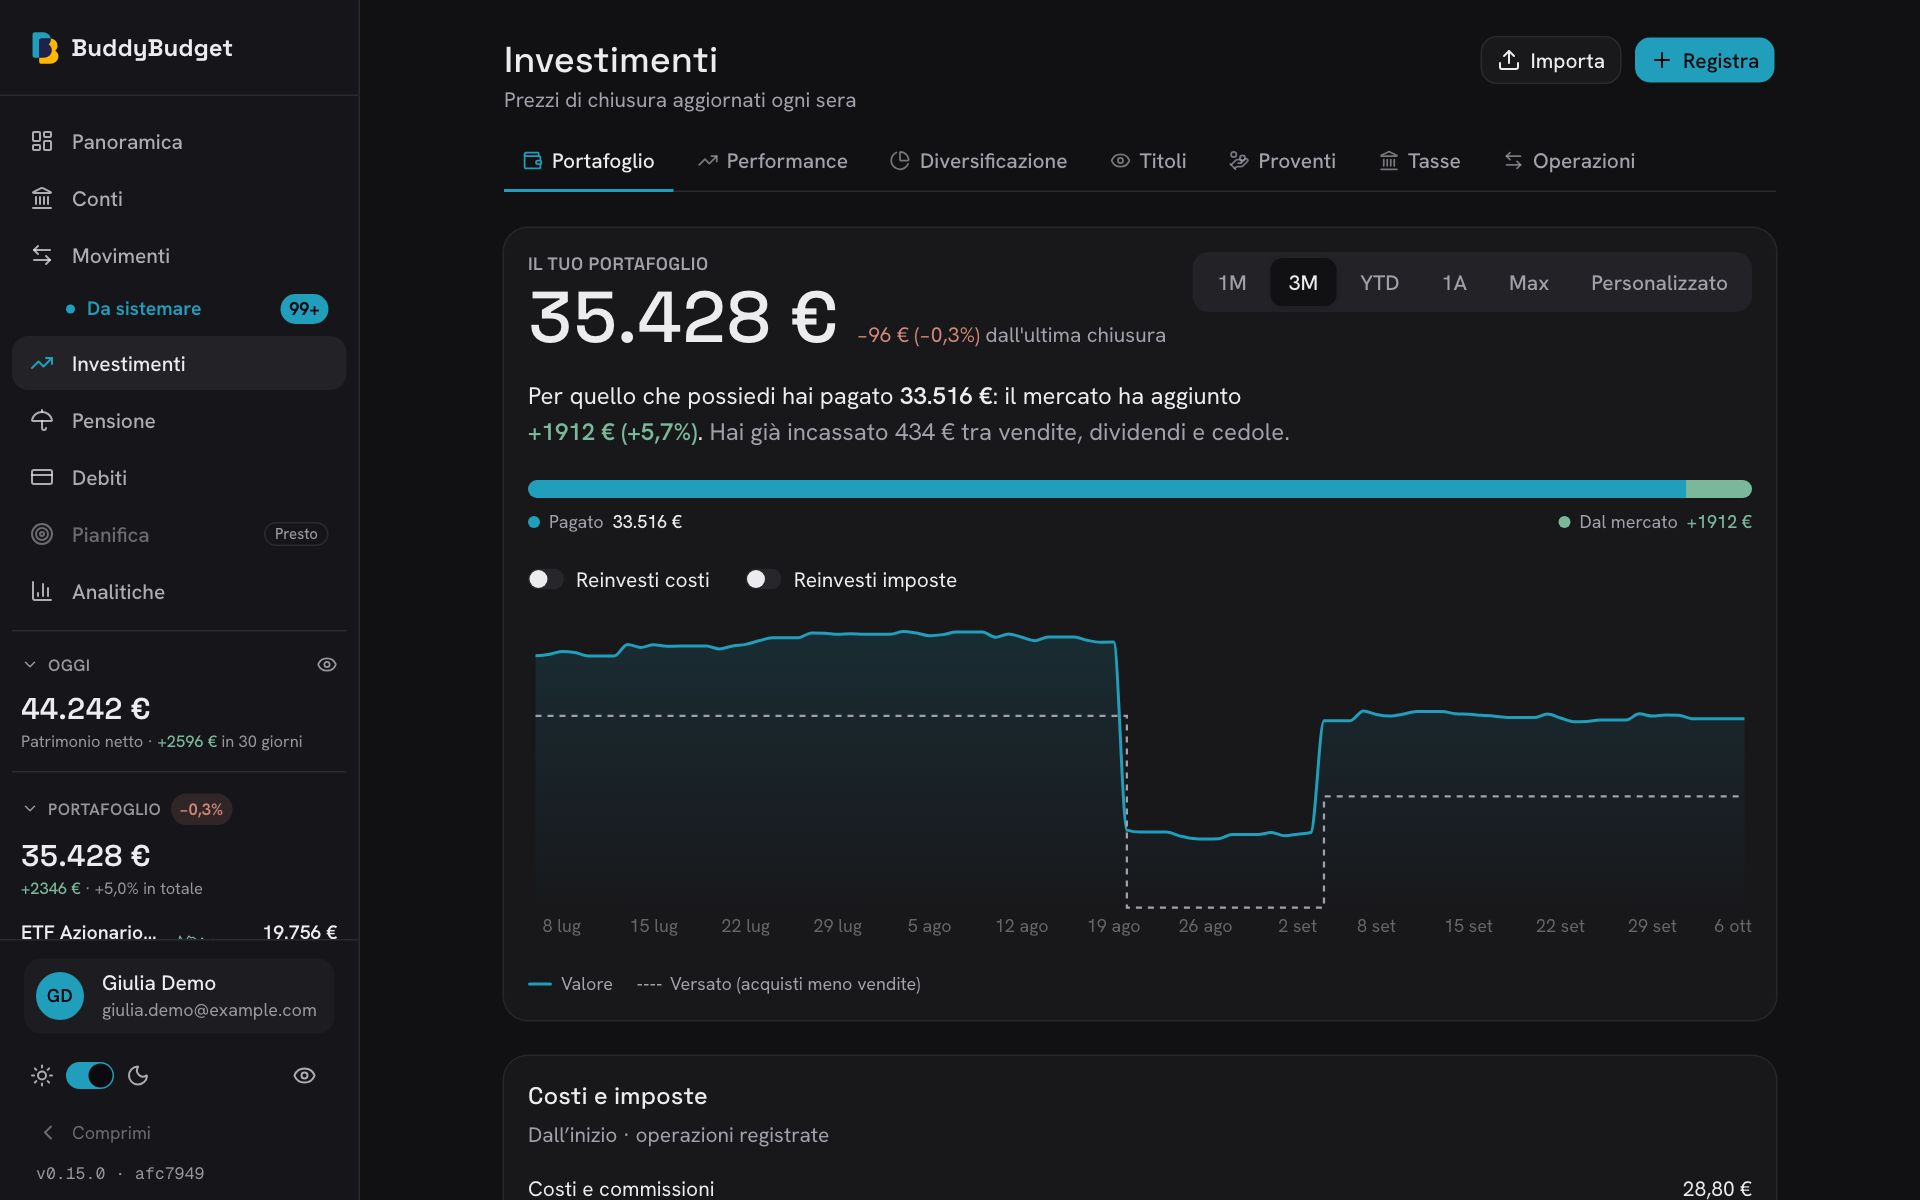
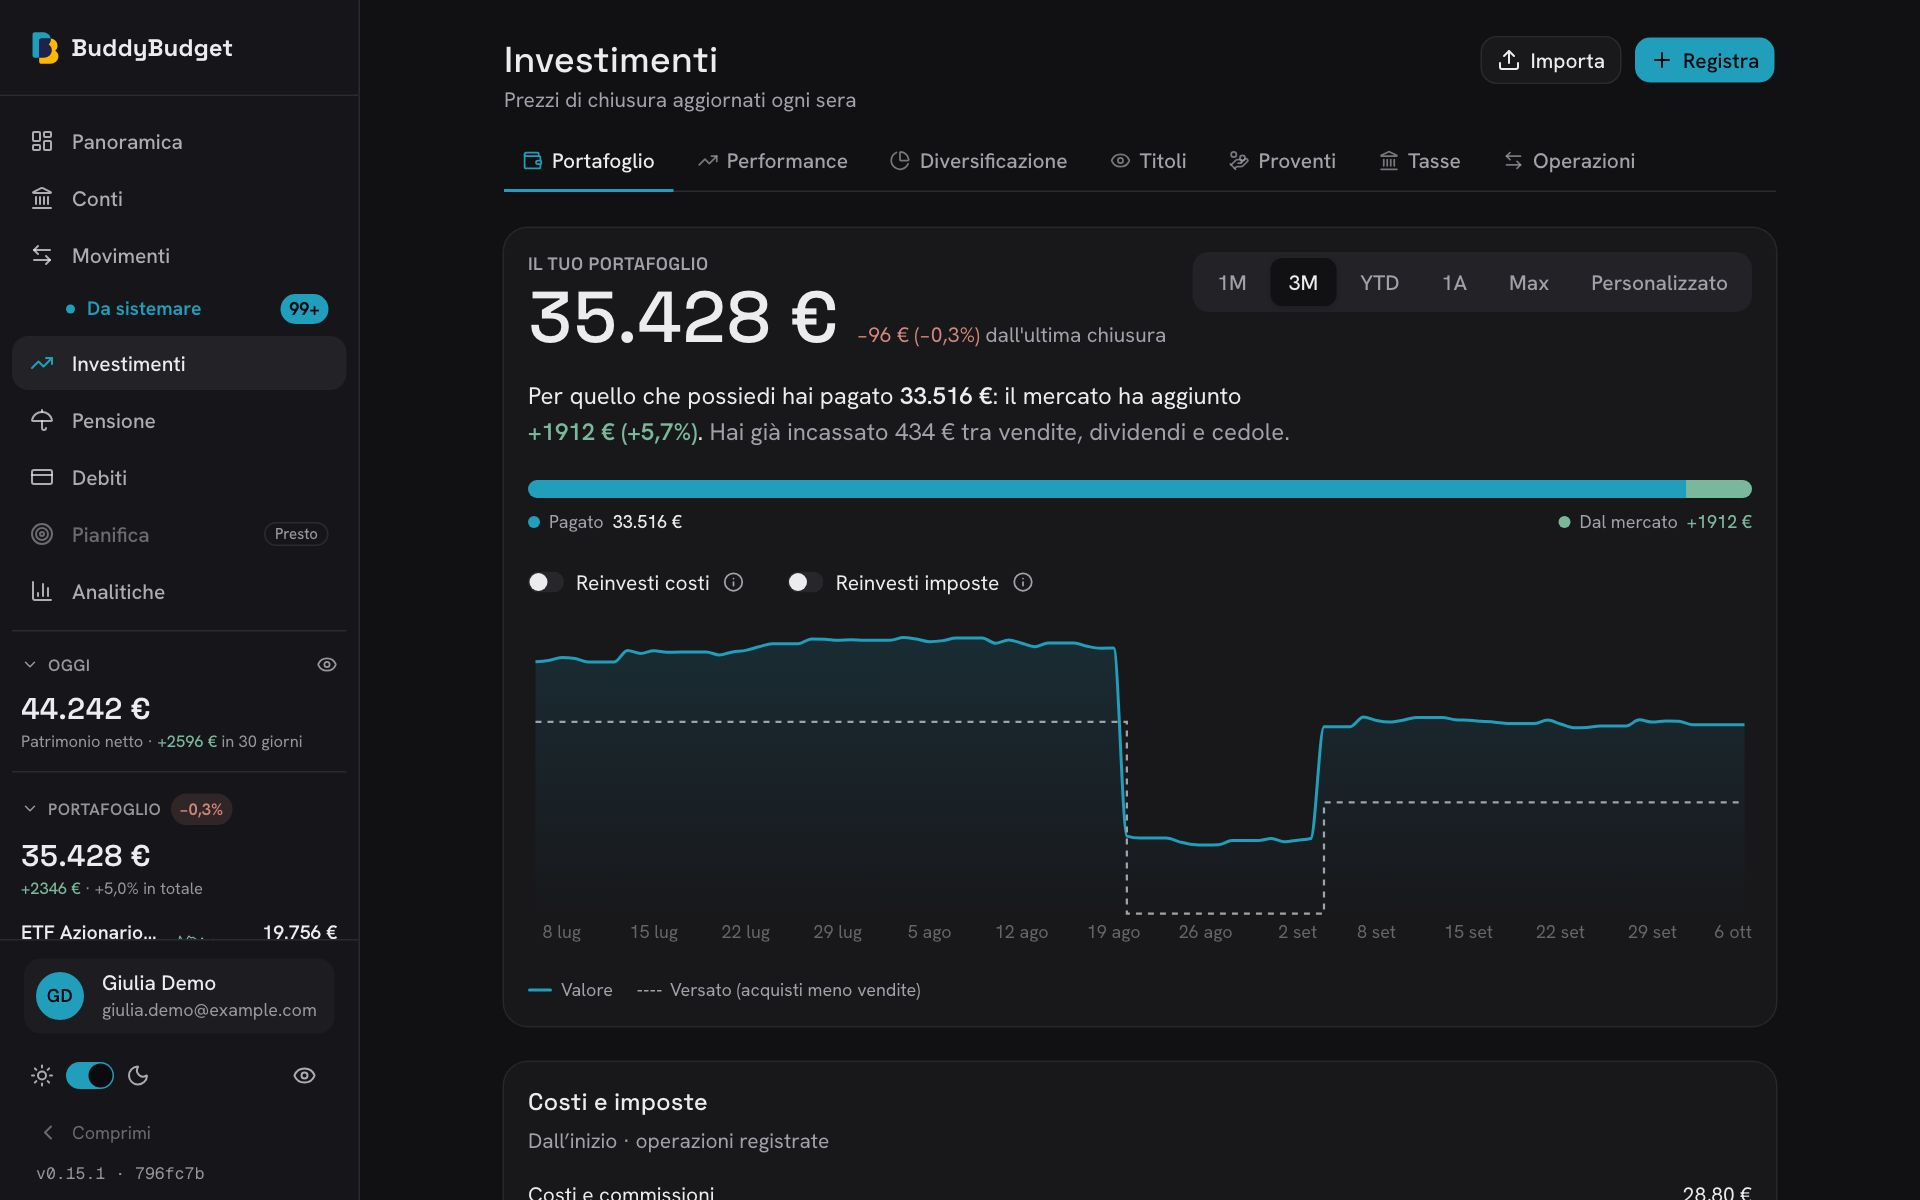
fix: explain portfolio cost and tax reinvestment toggles

diff --git a/components/domain/investments/portfolio-hero-card.tsx b/components/domain/investments/portfolio-hero-card.tsx
@@ -7,6 +7,7 @@
 
 import { simulateCostExclusions } from "@/lib/investments/cost-impact";
 import type { BrokerCash } from "@/lib/investments/broker-cash";
+import { InfoHint } from "@/components/domain/shared";
 import { Switch } from "@/components/ui/switch";
 import type { CostImpact } from "@/lib/investments/cost-impact";
 import { Area, AreaChart, Line, XAxis, YAxis } from "recharts";
@@ -24,6 +25,10 @@ const CHART_CONFIG = {
   value: { label: "Valore", color: "var(--primary)" },
   invested: { label: "Versato", color: "var(--muted-foreground)" },
 } satisfies ChartConfig;
+const REINVESTMENT_HELP = {
+  fees: "Simula quanto varrebbe oggi il portafoglio se costi e commissioni fossero rimasti investiti, crescendo nel tempo con il rendimento del portafoglio.",
+  taxes: "Simula quanto varrebbe oggi il portafoglio se le imposte fossero rimaste investite, crescendo nel tempo con il rendimento del portafoglio. Include le imposte registrate e le stime della scheda Tasse, con compensazione delle minusvalenze; bollo escluso.",
+} as const;
 const AREA_FILL_ID = "portfolio-hero-fill";
 const TOOLTIP_DATE_FORMAT = new Intl.DateTimeFormat("it-IT", { day: "numeric", month: "long", year: "numeric" });
 
@@ -135,8 +140,14 @@ export function PortfolioHeroCard({ cash = [], includeCash = true, onIncludeCash
         </> : null}
         {costImpact ? (
           <div className="flex flex-wrap items-center gap-x-6 gap-y-3 text-sm">
-            <label className="flex cursor-pointer items-center gap-2"><Switch size="sm" checked={!includeFees} onCheckedChange={(checked) => onIncludeFeesChange?.(!checked)} disabled={!costImpact.available} />Reinvesti costi</label>
-            <label className="flex cursor-pointer items-center gap-2"><Switch size="sm" checked={!includeTaxes} onCheckedChange={(checked) => onIncludeTaxesChange?.(!checked)} disabled={!costImpact.available} />Reinvesti imposte</label>
+            <div className="flex items-center gap-1">
+              <label className="flex cursor-pointer items-center gap-2"><Switch size="sm" checked={!includeFees} onCheckedChange={(checked) => onIncludeFeesChange?.(!checked)} disabled={!costImpact.available} />Reinvesti costi</label>
+              <InfoHint label="Come funziona Reinvesti costi?">{REINVESTMENT_HELP.fees}</InfoHint>
+            </div>
+            <div className="flex items-center gap-1">
+              <label className="flex cursor-pointer items-center gap-2"><Switch size="sm" checked={!includeTaxes} onCheckedChange={(checked) => onIncludeTaxesChange?.(!checked)} disabled={!costImpact.available} />Reinvesti imposte</label>
+              <InfoHint label="Come funziona Reinvesti imposte?">{REINVESTMENT_HELP.taxes}</InfoHint>
+            </div>
           </div>
         ) : null}
         {hasHistory ? (

diff --git a/docs/decisioni/2026-10-06-periodi-grafico-portafoglio.md b/docs/decisioni/2026-10-06-periodi-grafico-portafoglio.md
@@ -6,3 +6,4 @@
 - Ambito attuale: grafico della scheda Portafoglio. Gli altri selettori mantengono i periodi esistenti.
 - Evento Umami `investment_chart_period_changed` con solo categoria del periodo, senza date o importi. Nessuna nuova API o dipendenza esterna.
 - Catalogo e screenshot della landing aggiornati; test dei limiti calendario e della conservazione delle posizioni precedenti, verifica browser desktop/mobile con dati sintetici.
+- Icone informative accanto a Reinvesti costi e Reinvesti imposte: popover accessibile da tastiera e touch, separato dal toggle; spiega il reinvestimento al rendimento del portafoglio e distingue le imposte stimate.
